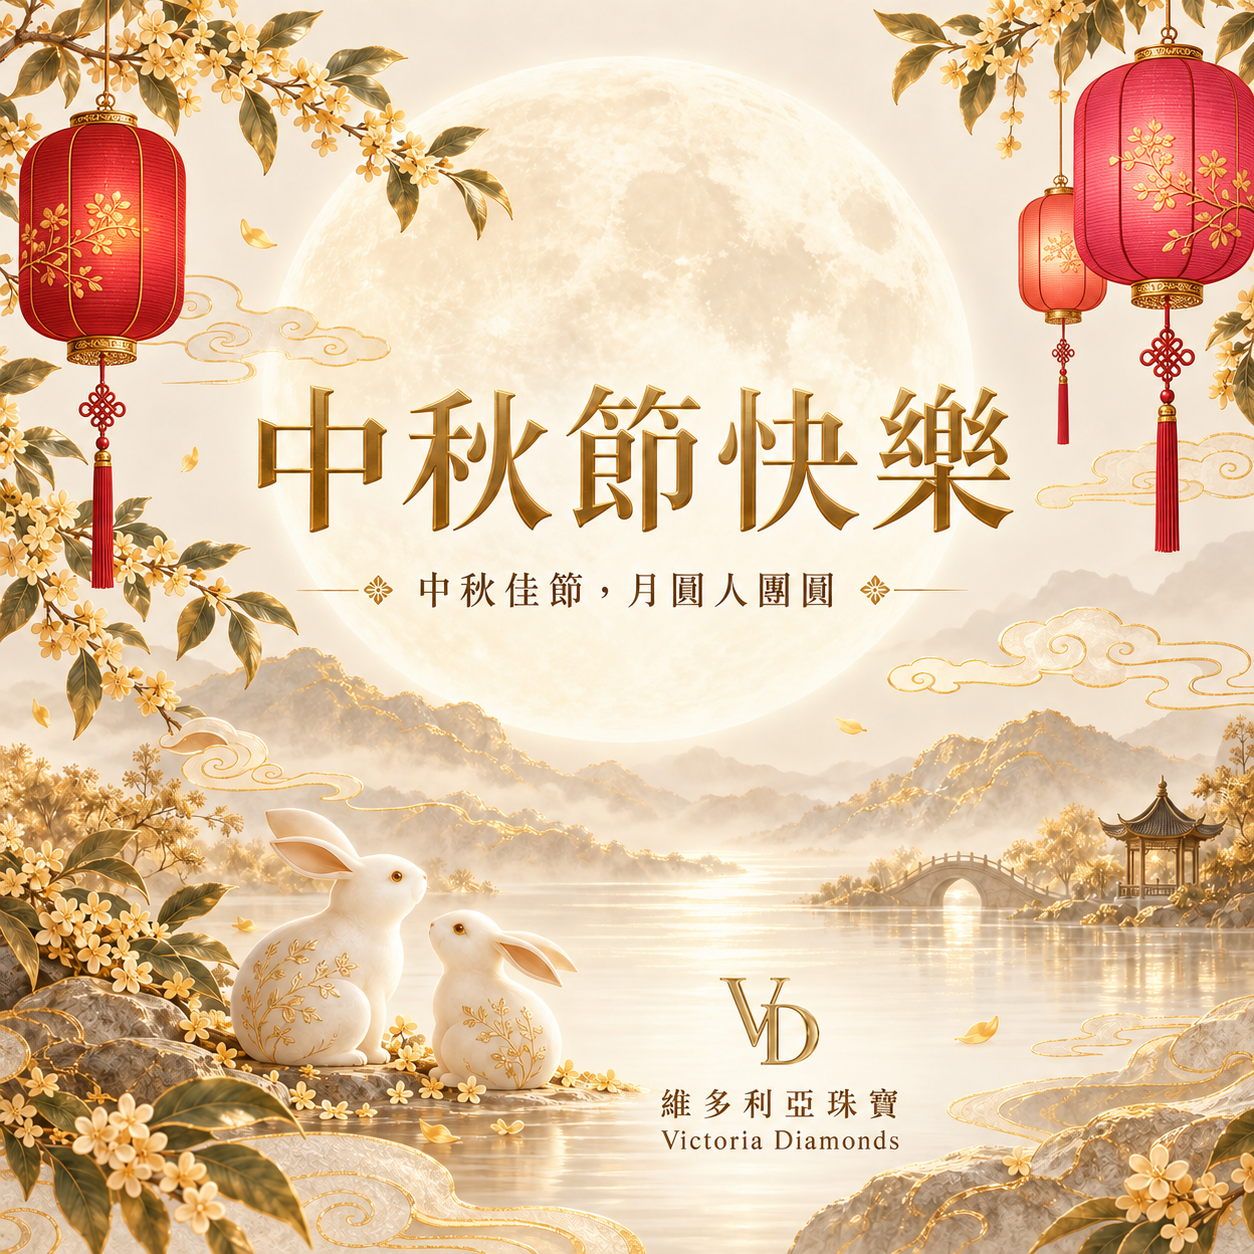
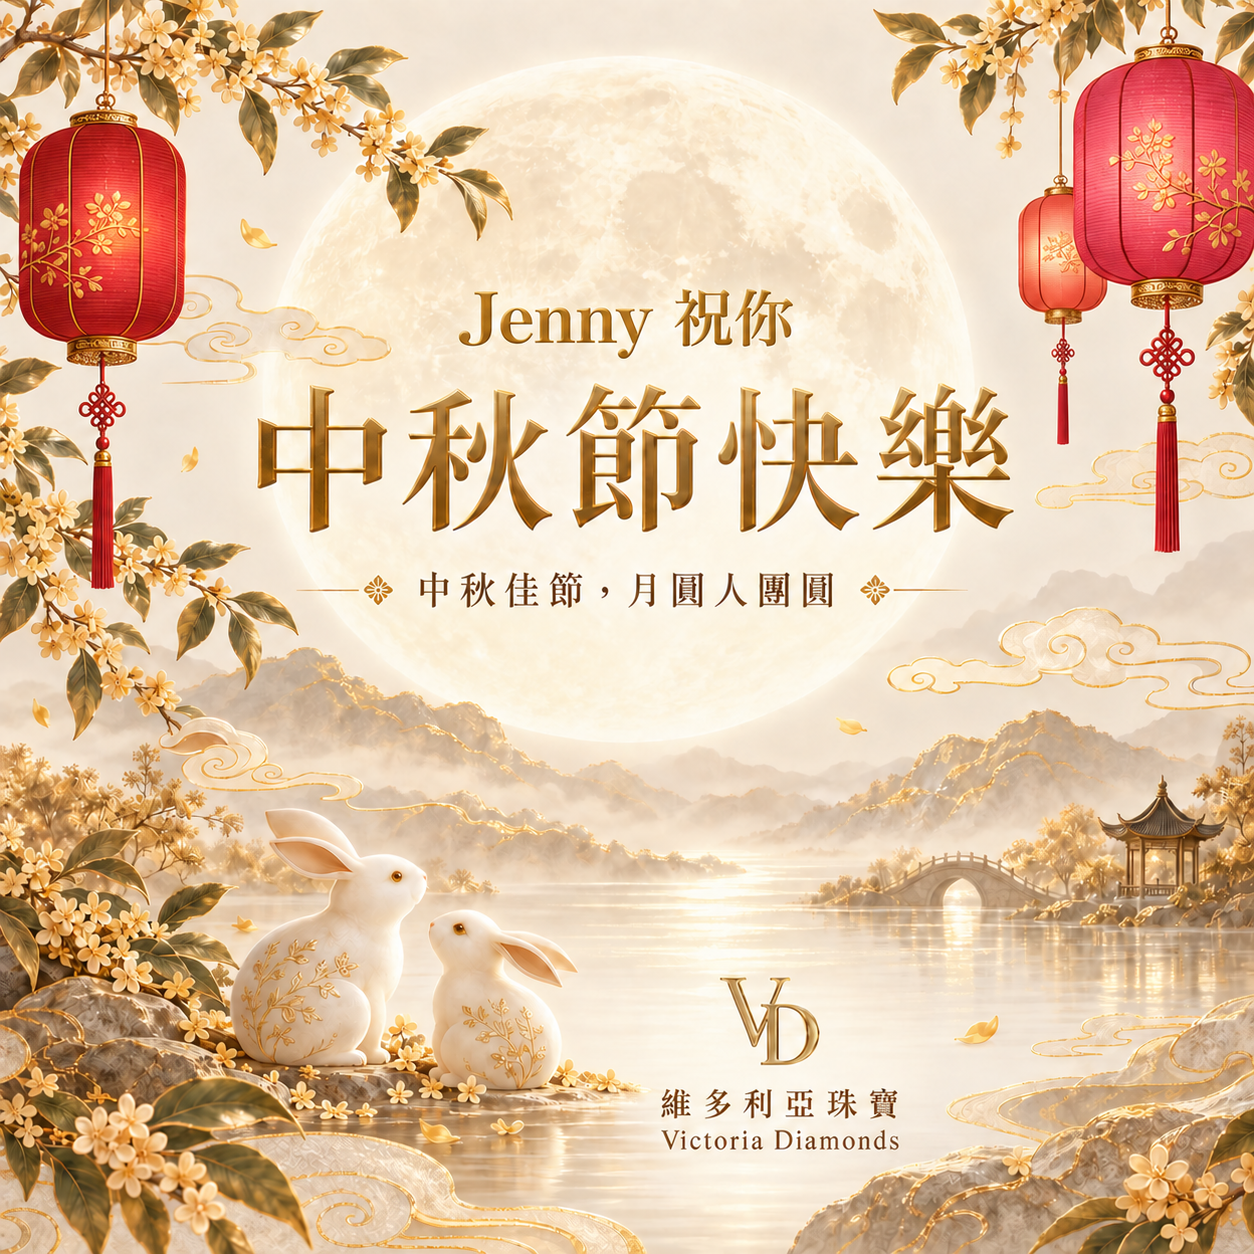
Add Jenny greeting to Mid-Autumn artwork

diff --git a/victoria-diamonds.js b/victoria-diamonds.js
@@ -1222,7 +1222,7 @@ if (document.readyState === 'loading') {
             midAutumnModal.innerHTML = `
                 <div class="modal-popup mid-autumn-popup" role="dialog" aria-modal="true" aria-label="中秋節快樂" lang="zh-HK">
                     <button type="button" class="modal-close-x" aria-label="關閉中秋祝福">&times;</button>
-                    <img src="images/mid-autumn-greeting.png" width="1254" height="1254" alt="維多利亞珠寶 Victoria Diamonds 祝您中秋節快樂。中秋佳節，月圓人團圓。" decoding="async">
+                    <img src="images/mid-autumn-greeting.png" width="1254" height="1254" alt="Jenny 祝你中秋節快樂。中秋佳節，月圓人團圓。維多利亞珠寶 Victoria Diamonds。" decoding="async">
                 </div>`;
             document.body.appendChild(midAutumnModal);
             midAutumnModal.querySelector('button').addEventListener('click', closeMidAutumnGreeting);
